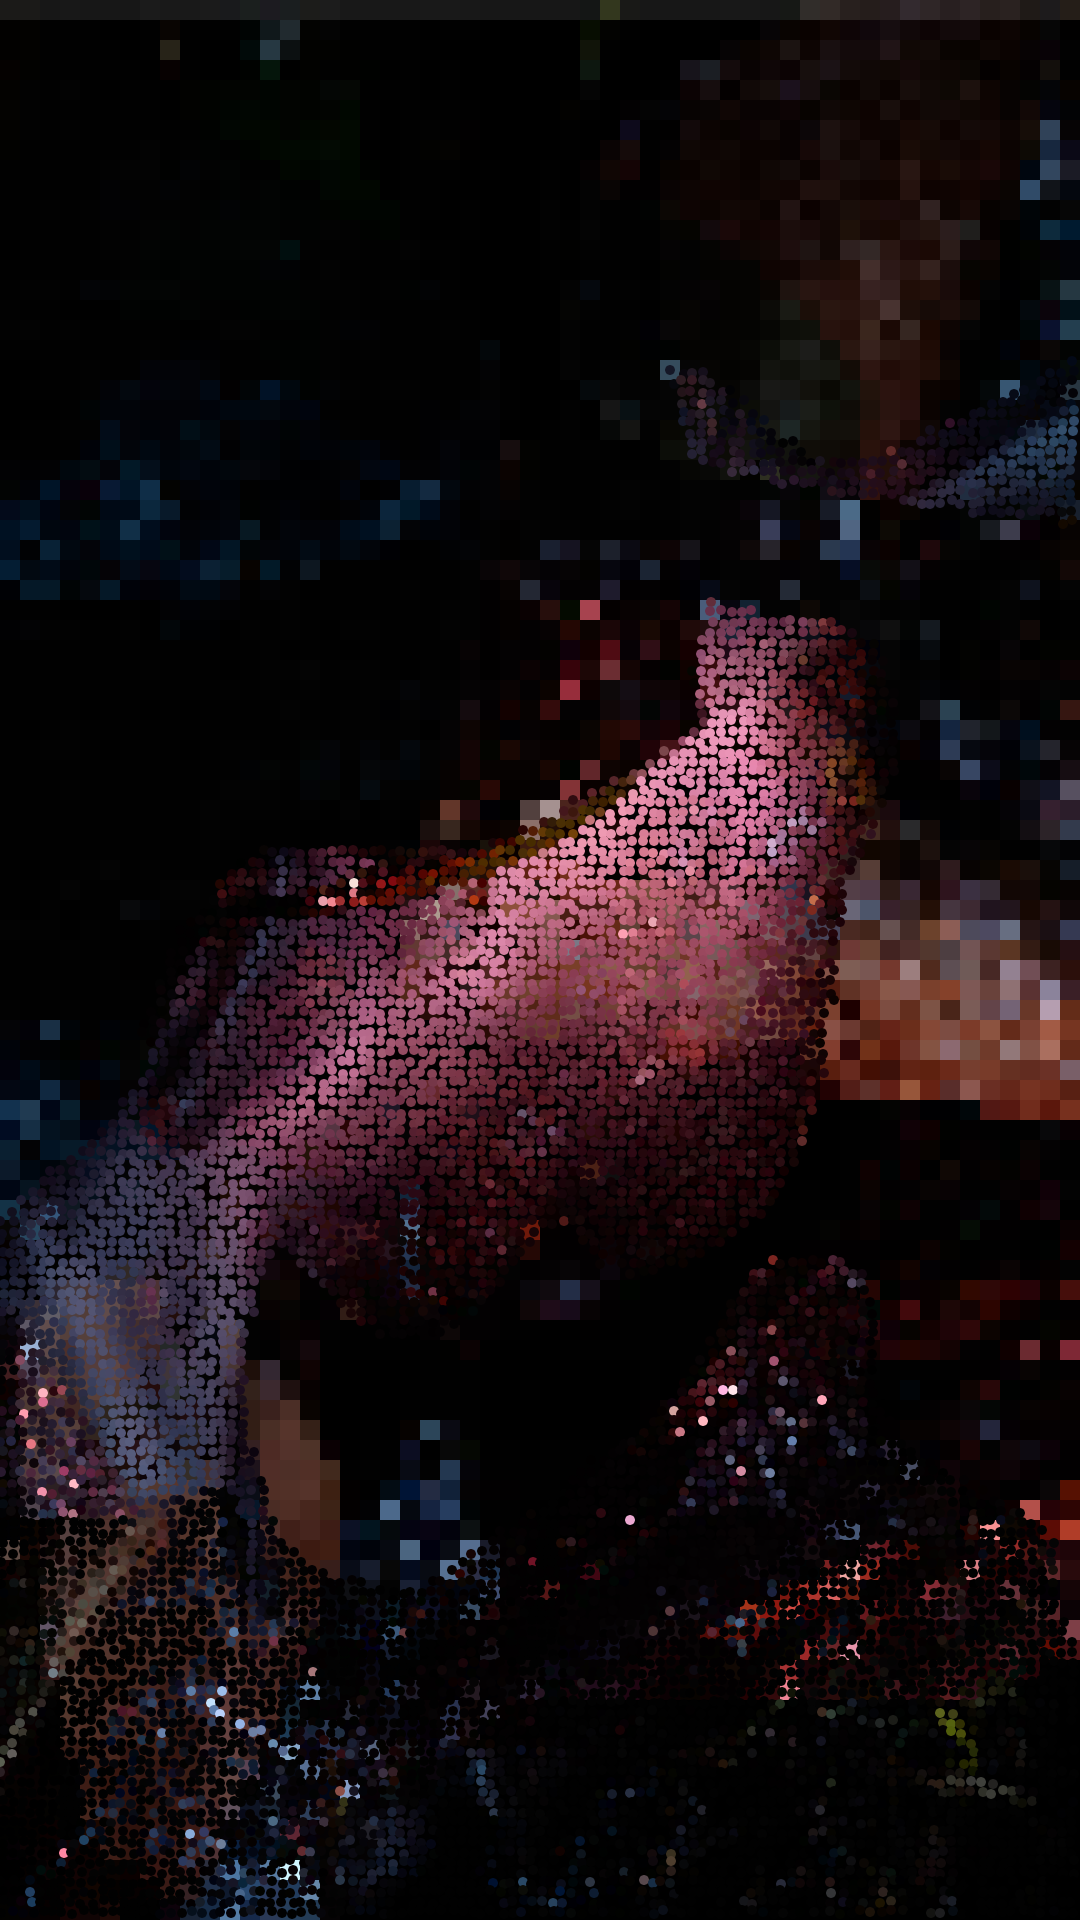
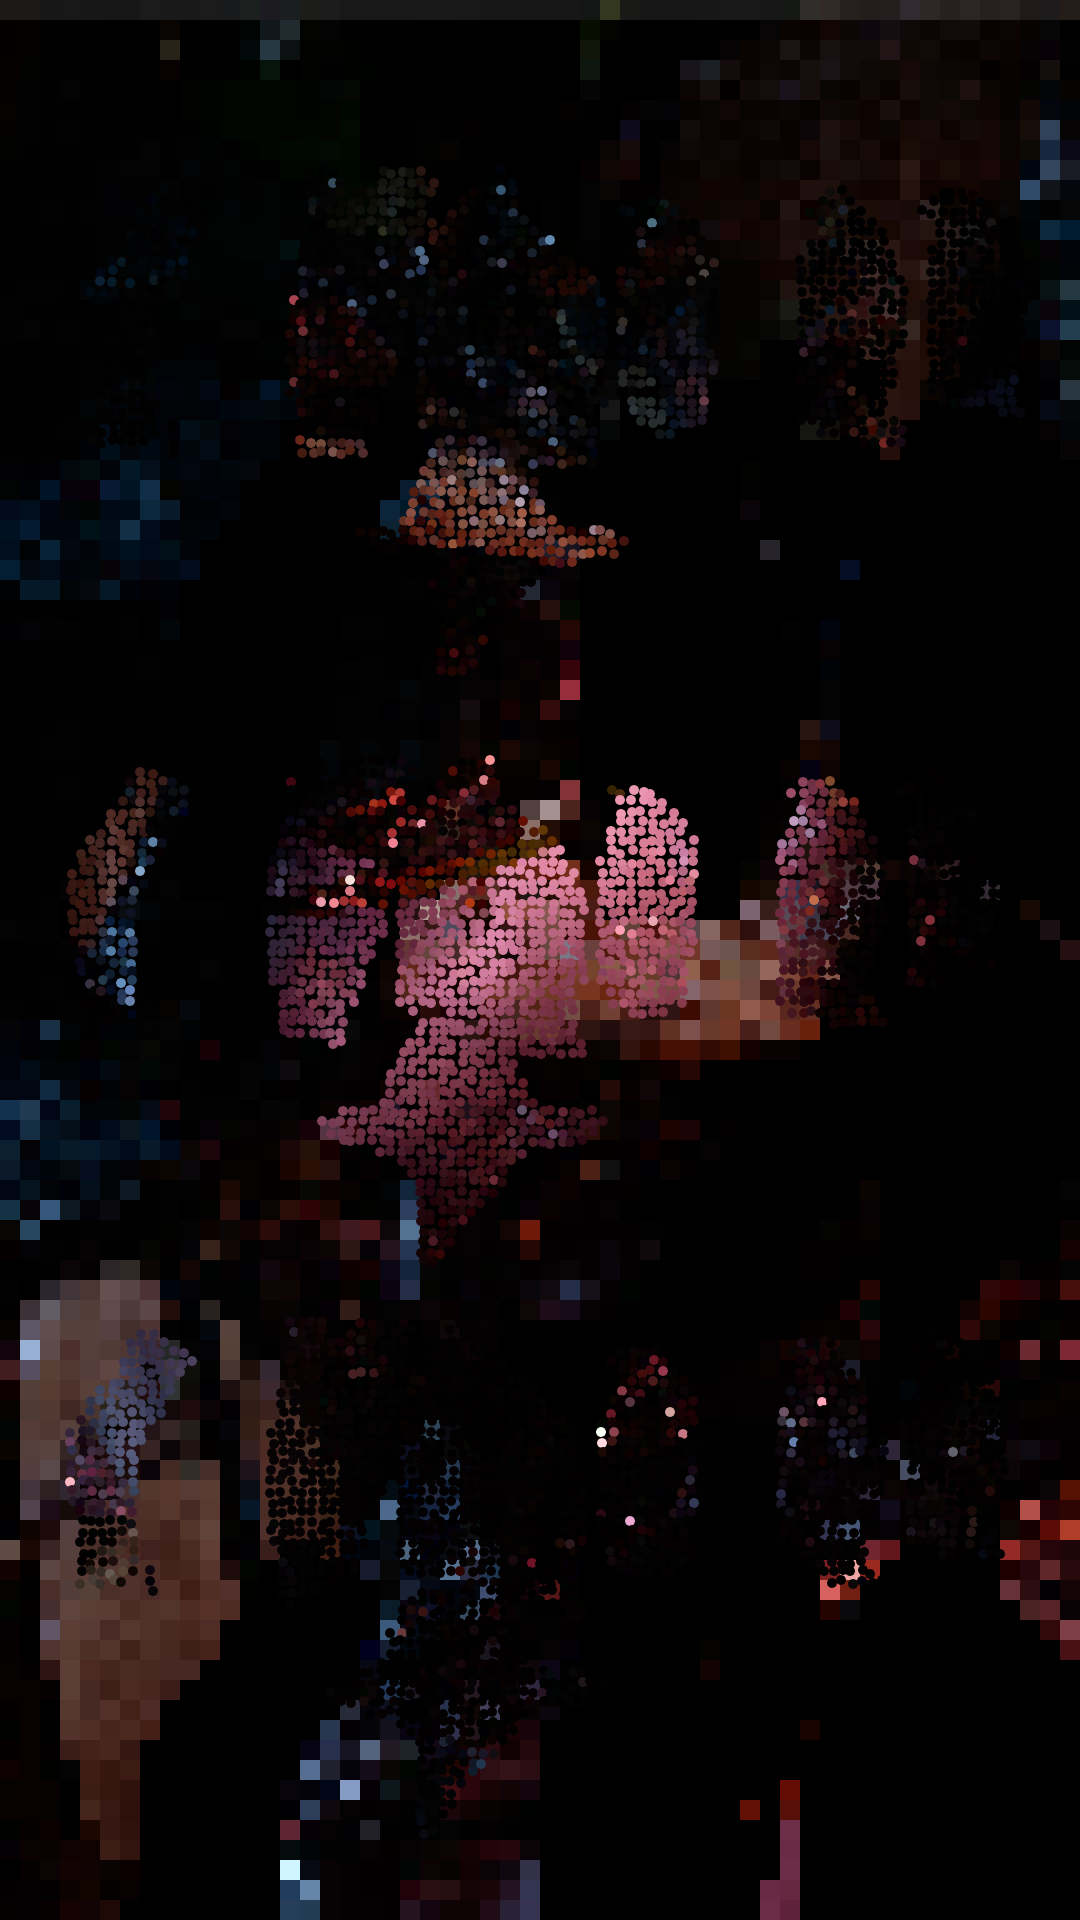
s

diff --git a/sketch.js b/sketch.js
@@ -4,7 +4,7 @@ let renderCounter=0;
 
 function preload() {
   sourceImg = loadImage("input_3.jpg");
-  maskImg = loadImage("mask_3.png");
+  maskImg = loadImage("mask_4.png");
 }
 
 function setup () {

diff --git a/README.md b/README.md
@@ -3,3 +3,5 @@
 UPDATE #1: These are some images I took for a photography paper last year experimenting with colour, water and light. The masks follow the flow of the light and water which creates a abstract image. I would like to experiment with the mask code to get a more 3d feel.
 
 UPDATE #2: Experimented with the masks in order to form a more defineable shape. Also played with the code to seperate what I see as the abstract form and what I see as the background. I am pretty happy with the results so far.
+
+UPDATE #3: Experimented with the smartmask program, using an image of penguins. I projected these forms onto my abstract image, to see what kind of results I would get. The results here are mixed, but I think with some refinement and more careful placement so the images are clearer this could look interesting. I am not sure if I would prefer to use smartmask or photoshop at this point as photoshop allows for a bit more precision which could be important when working with a more abstract image such as this.
